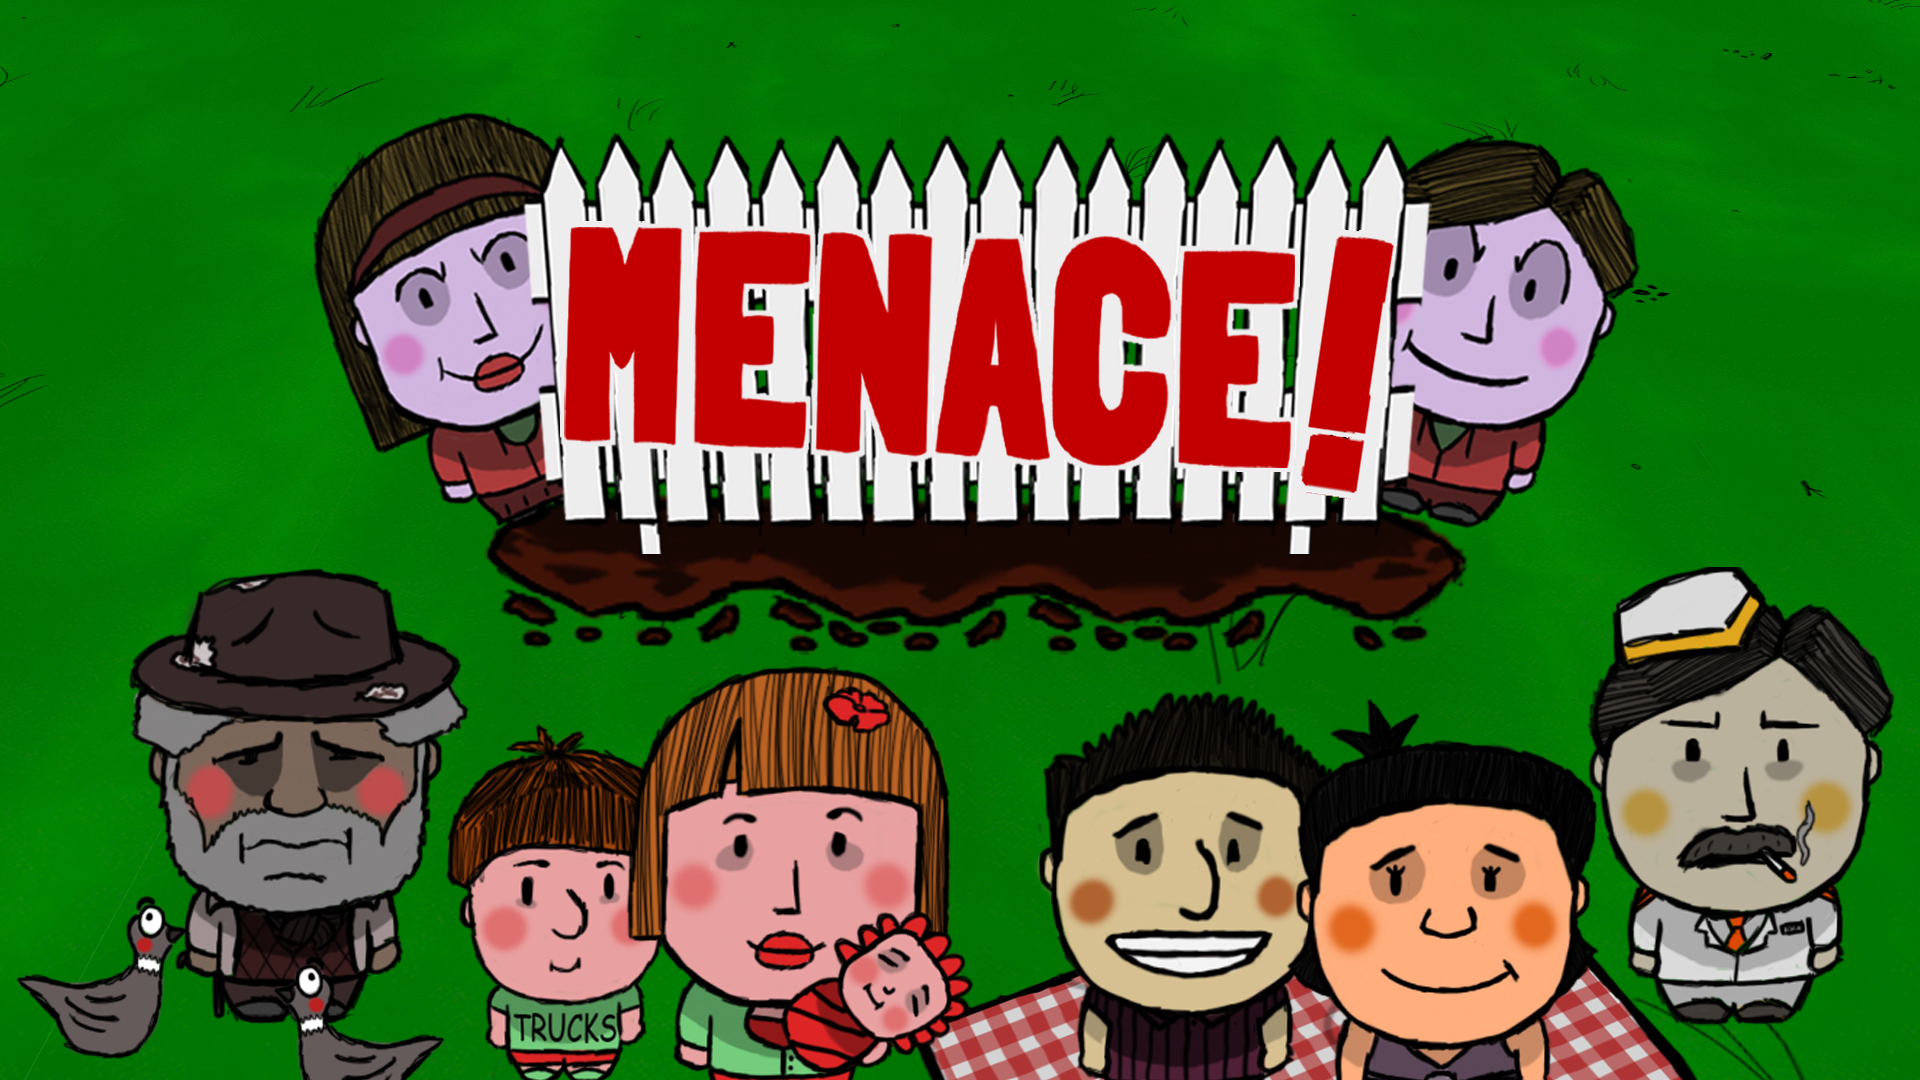
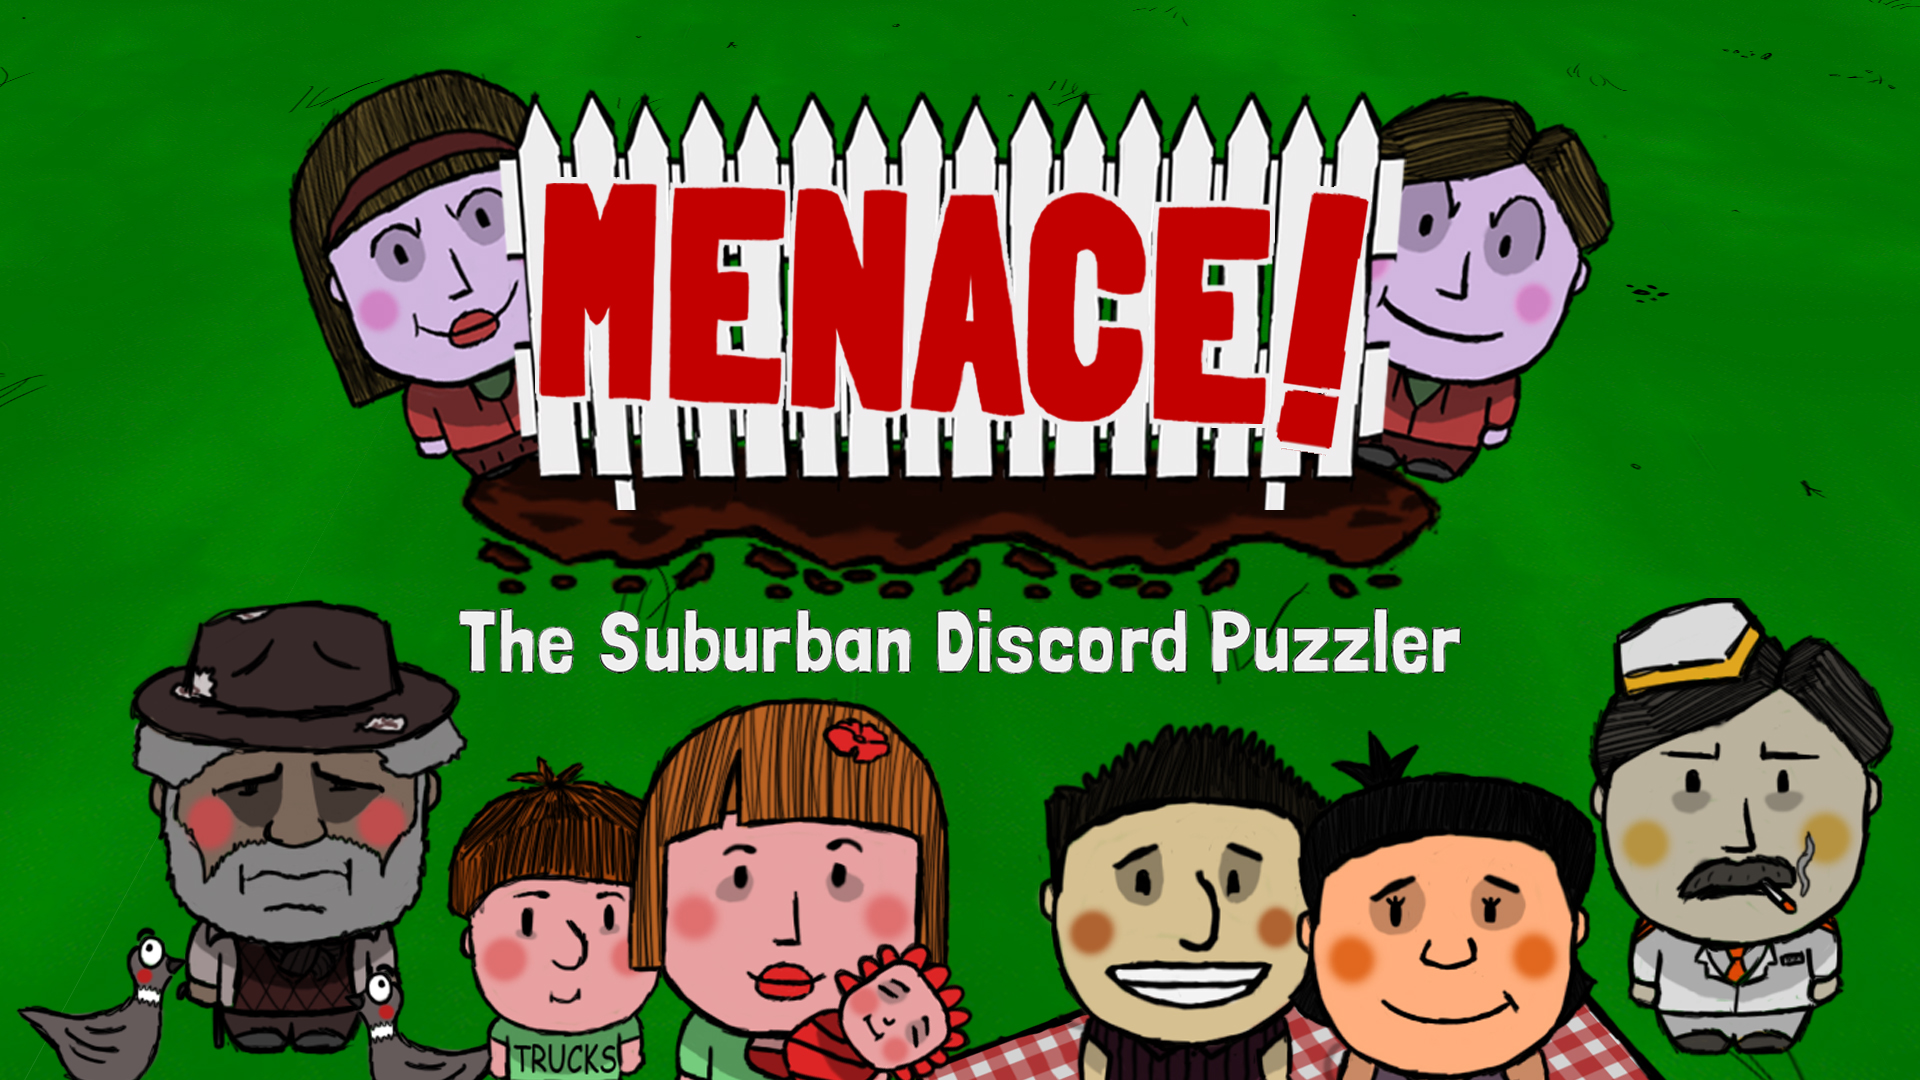
Finished about css

diff --git a/css/loaded.css b/css/loaded.css
@@ -31,9 +31,21 @@
 }
 
 section {
-  padding: 150px 0;
+  padding: 7.5rem 0;
   display: block;
   position: relative;
+}
+
+img {
+  max-width: 100%;
+}
+
+h1 {
+  font-size: 3rem;
+}
+
+h2 {
+  font-size: 2.5rem;
 }
 
 .before-edge-dark::before {
@@ -44,7 +56,7 @@ section {
   height: 15px;
   width: 100%;
   left: 0;
-  top: -15px;
+  top: -14px;
   z-index: 10;
 }
 
@@ -56,7 +68,7 @@ section {
   height: 15px;
   width: 100%;
   left: 0;
-  top: -15px;
+  top: -14px;
   z-index: 10;
 }
 
@@ -68,7 +80,7 @@ section {
   height: 15px;
   width: 100%;
   left: 0;
-  bottom: -15px;
+  bottom: -14px;
   z-index: 10;
 }
 
@@ -80,7 +92,7 @@ section {
   height: 15px;
   width: 100%;
   left: 0;
-  bottom: -15px;
+  bottom: -14px;
   z-index: 10;
 }
 
@@ -144,23 +156,106 @@ main {
 
 /* /Main block */
 
-/* About */
+/* Images */
 
-.about-block {
-  display: flex;
-  align-items: center;
-  margin-bottom: 5rem;
+.image-border {
+  position: relative;
+  background-image: url('../images/image-border.png');
+  background-size: contain;
+  background-repeat: no-repeat;
 }
 
-.about-block__content {
-  padding: 0 20px;
-  width: 50%;
+.image-border__image {
+  position: absolute;
+  box-sizing: border-box;
+  top: 0;
+  left: 0;
+}
+
+.sixteen-nine::before {
+  display: block;
+  content: "";
+  width: 100%;
+  padding-top: 56.25%;
+}
+
+/* /Images */
+
+/* About */
+.about-block {
+  margin-bottom: 3.5rem;
+  overflow: hidden;
+}
+
+.about-block:last-child {
   margin-bottom: 0;
 }
 
-.about-block__image {
-  padding: 0 20px;
-  width: 50%;
+.about-block .image-border__image {
+    width: 100%;
+    padding: 2.6% 6.5% 0 2.8%;
 }
+
+.about-block__content {
+  position: relative;
+  float: left;
+  width: 100%;
+  left: 0;
+  margin-bottom: 1rem;
+}
+
+.about-block__image-wrapper {
+  position: relative;
+  float: left;
+  width: 100%;
+}
+
+@media (min-width: 768px)
+{
+  .about-block {
+    display: flex;
+    align-items: center;
+  }
+
+  .about-block__content {
+    padding: 0 20px;
+    max-width: 50%;
+    margin-bottom: 0;
+  }
+
+  .about-block__image-wrapper {
+    padding: 0 20px;
+    max-width: 50%;
+  }
+
+  .about-block:nth-child(even) .about-block__content {
+    left: 50%;
+  }
+
+  .about-block:nth-child(even) .about-block__image-wrapper {
+    left: -50%;
+  }
+}
+
+@media (min-width: 992px)
+{
+  .about-block__content {
+    max-width: 33%;
+  }
+
+  .about-block__image-wrapper {
+    max-width: 67%;
+  }
+
+  .about-block:nth-child(even) .about-block__content {
+    left: 67%;
+  }
+
+  .about-block:nth-child(even) .about-block__image-wrapper {
+    left: -33%;
+  }
+}
+
+
 
 /* /About */

diff --git a/index.html b/index.html
@@ -87,20 +87,25 @@
       <section id="about" class="before-edge-dark after-edge-dark bg-dark">
         <div class="about-block container">
           <div class="about-block__content col-lg-8 mx-auto">
-            <h2 class="menace-font">MENACE!</h2>
-            <p class="lead">This is a great place to talk about your webpage. This template is purposefully unstyled so you can use it as a boilerplate or starting point for you own landing page designs! This template features:</p>
-            
-          </div>
-          <div class="about-block__image">
-          </div>
-        </div>
-        <div class="about-block container">
-          <div class="about-block__content col-lg-8 mx-auto">
             <h2 class="menace-font">Menace!</h2>
             <p class="lead">This is a great place to talk about your webpage. This template is purposefully unstyled so you can use it as a boilerplate or starting point for you own landing page designs! This template features:</p>
 
           </div>
-          <div class="about-block__image">
+          <div class="about-block__image-wrapper col-lg-8 mx-auto">
+            <div class="image-border sixteen-nine">
+              <img class="image-border__image" src="images/menacescreens/screenshot1.png">
+            </div>
+          </div>
+        </div>
+        <div class="about-block container">
+          <div class="about-block__content col-lg-8 mx-auto">
+            <h2 class="menace-font">The Suburban Discord Puzzler</h2>
+            <p class="lead">This is a great place to talk about your webpage. This template is purposefully unstyled so you can use it as a boilerplate or starting point for you own landing page designs! This template features:</p>
+          </div>
+          <div class="about-block__image-wrapper col-lg-8 mx-auto">
+            <div class="image-border sixteen-nine">
+              <img class="image-border__image" src="images/menacescreens/screenshot1.png">
+            </div>
           </div>
         </div>
       </section>
